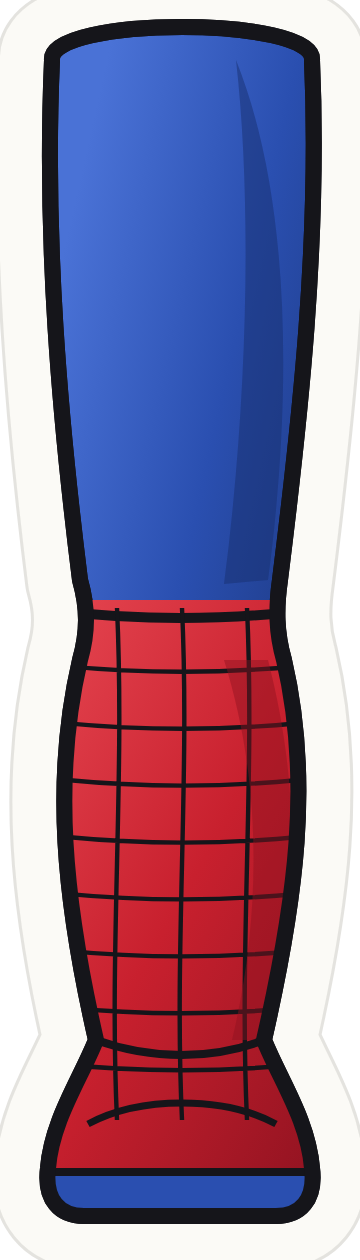
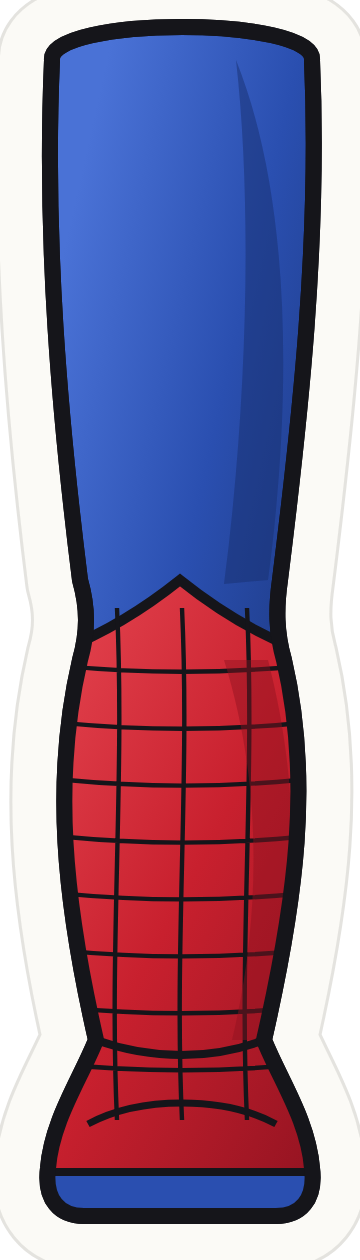
Spider-Man artwork v3 (classic design): red back spider with black outline, webs from the chest spider and nose bridge, red outer-arm stripe into pointed gloves, pointed boot tops; in-game Spider-Man back to the paper doll
Claude-Session: https://claude.ai/code/session_0198385Gymj8D5eAjyBu1iwV

Changed region(s): [[0.2444, 0.4333, 0.7639, 0.5262]]

diff --git a/tools/art/spiderman.py b/tools/art/spiderman.py
@@ -73,7 +73,7 @@ def head(front):
             f'<stop offset="0.55" stop-color="{RED}"/><stop offset="1" stop-color="{RED_D}"/></radialGradient>'
             '<linearGradient id="gLens" x1="0" y1="0" x2="1" y2="1"><stop offset="0" stop-color="#ffffff"/><stop offset="1" stop-color="#cfd8e6"/></linearGradient>')
     if front:
-        w = web(200, 300, 16, [40, 78, 118, 160, 204, 250], 330, bend=0.05, a0=-math.pi / 2, width=2.4, squash=1.08)
+        w = web(200, 290, 16, [40, 78, 118, 160, 204, 250], 330, bend=0.05, a0=-math.pi / 2, width=2.4, squash=1.08)
         detail = "".join(lens(s) for s in (-1, 1))
     else:
         w = web(200, 150, 16, [36, 74, 114, 156, 200, 248, 296], 380, bend=0.05, a0=-math.pi / 2, width=2.4, squash=1.15)
@@ -111,26 +111,31 @@ def narrow(path, k=0.8, cx=200):
 TORSO, CHEST, BELT = narrow(TORSO), narrow(CHEST), narrow(BELT)
 
 
-def spider(cx, cy, s):
+def spider(cx, cy, s, fill=None):
+    """Spider emblem. fill=None: solid black (chest); fill=color: that color with a black outline (classic back spider)."""
     legs = [
         [(8, -30), (60, -70), (128, -96)], [(10, -18), (78, -34), (150, -30)],
         [(10, 8), (80, 30), (130, 92)], [(8, 24), (52, 84), (82, 160)],
     ]
-    out = []
-    for sx in (-1, 1):
-        for L in legs:
-            pts = [(cx + sx * x * s, cy + y * s) for x, y in L]
-            out.append(f'<path d="M{pts[0][0]:.1f} {pts[0][1]:.1f}Q{pts[1][0]:.1f} {pts[1][1]:.1f} {pts[2][0]:.1f} {pts[2][1]:.1f}" '
-                       f'fill="none" stroke="{INK}" stroke-width="{7 * s:.1f}" stroke-linecap="round"/>')
-    out.append(f'<ellipse cx="{cx}" cy="{cy - 22 * s:.1f}" rx="{14 * s:.1f}" ry="{18 * s:.1f}" fill="{INK}"/>')
-    out.append(f'<path d="M{cx} {cy - 8 * s:.1f} C{cx + 24 * s:.1f} {cy:.1f} {cx + 22 * s:.1f} {cy + 56 * s:.1f} {cx} {cy + 74 * s:.1f} '
-               f'C{cx - 22 * s:.1f} {cy + 56 * s:.1f} {cx - 24 * s:.1f} {cy:.1f} {cx} {cy - 8 * s:.1f} Z" fill="{INK}"/>')
-    return "".join(out)
+    def shapes(col, grow):
+        out = []
+        for sx in (-1, 1):
+            for L in legs:
+                pts = [(cx + sx * x * s, cy + y * s) for x, y in L]
+                out.append(f'<path d="M{pts[0][0]:.1f} {pts[0][1]:.1f}Q{pts[1][0]:.1f} {pts[1][1]:.1f} {pts[2][0]:.1f} {pts[2][1]:.1f}" '
+                           f'fill="none" stroke="{col}" stroke-width="{7 * s + grow:.1f}" stroke-linecap="round"/>')
+        out.append(f'<ellipse cx="{cx}" cy="{cy - 22 * s:.1f}" rx="{14 * s + grow / 2:.1f}" ry="{18 * s + grow / 2:.1f}" fill="{col}"/>')
+        out.append(f'<path d="M{cx} {cy - 8 * s:.1f} C{cx + 24 * s:.1f} {cy:.1f} {cx + 22 * s:.1f} {cy + 56 * s:.1f} {cx} {cy + 74 * s:.1f} '
+                   f'C{cx - 22 * s:.1f} {cy + 56 * s:.1f} {cx - 24 * s:.1f} {cy:.1f} {cx} {cy - 8 * s:.1f} Z" fill="{col}" stroke="{col}" stroke-width="{grow:.1f}"/>')
+        return "".join(out)
+    if fill is None:
+        return shapes(INK, 0)
+    return shapes(INK, 8) + shapes(fill, 0)
 
 
 def torso(front):
     defs = (f'<clipPath id="cc"><path d="{CHEST}"/></clipPath><clipPath id="bc"><path d="{BELT}"/></clipPath><clipPath id="tc"><path d="{TORSO}"/></clipPath>')
-    cy = 118 if front else 130
+    cy = 150 if front else 168  # the web radiates from the spider
     w = web(200, cy, 14, [34, 68, 104, 142, 182, 224], 300, bend=0.05, a0=-math.pi / 2, width=2.2, squash=1.0)
     belt_web = "".join(f'<path d="M{200 + (110 + i * 23 - 200) * 0.8:.1f} 352 L{200 + (108 + i * 23.5 - 200) * 0.8:.1f} 440" stroke="{INK}" stroke-width="2.2"/>' for i in range(9)) + \
         f'<path d="M100 396 C170 404 230 404 300 396" fill="none" stroke="{INK}" stroke-width="2.2"/>'
@@ -144,7 +149,7 @@ def torso(front):
                   f'<path d="{CHEST}" fill="url(#gRed)" stroke="{INK}" stroke-width="5"/>'
                   f'<g clip-path="url(#cc)">{w}<path d="{narrow("M290 60 C320 120 280 200 240 260 L232 312 L250 312 C262 240 330 150 300 60 Z")}" fill="{RED_D}" opacity="0.4"/></g>'
                   f'<path d="{BELT}" fill="url(#gRed)" stroke="{INK}" stroke-width="5"/><g clip-path="url(#bc)">{belt_web}</g>'
-                  + muscles + '<g clip-path="url(#tc)">' + spider(200, 150 if front else 168, 0.85 if front else 1.25) + '</g>' +
+                  + muscles + '<g clip-path="url(#tc)">' + spider(200, 150 if front else 168, 0.85 if front else 1.25, None if front else RED_L) + '</g>' +
                   f'<path d="{TORSO}" fill="none" stroke="{INK}" stroke-width="10" stroke-linejoin="round"/>')
     return svg(400, 480, body, defs)
 
@@ -168,13 +173,14 @@ def grid_lines(x0, x1, y0, y1, cols, rows, curve=8):
 
 def arm():
     defs = (f'<clipPath id="ac"><path d="{ARM}"/></clipPath>')
-    red_low = f'<rect x="0" y="256" width="160" height="330" fill="url(#gRed)"/>'
     cap = f'<path d="M0 0 H160 V96 C120 108 40 108 0 96 Z" fill="url(#gRed)"/>'
     body = cutout(ARM, "url(#gBlue)", ink=8, extra=
                   f'<g clip-path="url(#ac)">'
                   f'<path d="M100 60 C122 110 122 170 112 214 L96 214 C106 170 108 110 100 60 Z" fill="{BLUE_D}" opacity="0.5"/>'
                   f'{cap}<path d="M0 96 C40 108 120 108 160 96" fill="none" stroke="{INK}" stroke-width="5"/>'
-                  f'{red_low}<path d="M0 256 C40 266 120 266 160 256" fill="none" stroke="{INK}" stroke-width="5"/>'
+                  f'<path d="M24 90 L58 98 C56 150 54 200 56 262 L24 262 Z" fill="url(#gRed)"/><path d="M58 98 C56 150 54 200 56 262" fill="none" stroke="{INK}" stroke-width="4"/>'
+                  f'<path d="M0 270 C40 262 64 250 82 240 C100 250 124 262 160 270 L160 600 L0 600 Z" fill="url(#gRed)"/>'
+                  f'<path d="M0 270 C40 262 64 250 82 240 C100 250 124 262 160 270" fill="none" stroke="{INK}" stroke-width="5"/>'
                   f'{grid_lines(30, 134, 260, 470, 4, 8, 6)}{grid_lines(30, 134, 10, 100, 4, 3, 6)}'
                   f'<path d="M98 270 C112 330 108 400 100 462 L116 462 C124 400 126 330 116 270 Z" fill="{RED_D}" opacity="0.45"/>'
                   f'<path d="M96 476 C112 490 116 520 108 552 L124 540 C132 510 126 486 110 470 Z" fill="{RED_D}" opacity="0.5"/>'
@@ -198,8 +204,8 @@ def leg():
     body = cutout(LEG, "url(#gBlue)", ink=8, extra=
                   f'<g clip-path="url(#lc)">'
                   f'<path d="M118 30 C146 100 146 200 134 290 L112 292 C124 200 126 100 118 30 Z" fill="{BLUE_D}" opacity="0.5"/>'
-                  f'<rect x="0" y="300" width="180" height="320" fill="url(#gRed)"/>'
-                  f'<path d="M0 300 C50 312 130 312 180 300" fill="none" stroke="{INK}" stroke-width="5"/>'
+                  f'<path d="M0 334 C40 326 70 306 90 290 C110 306 140 326 180 334 L180 630 L0 630 Z" fill="url(#gRed)"/>'
+                  f'<path d="M0 334 C40 326 70 306 90 290 C110 306 140 326 180 334" fill="none" stroke="{INK}" stroke-width="5"/>'
                   f'{grid_lines(26, 156, 304, 560, 4, 9, 7)}'
                   f'<path d="M112 330 C134 400 128 470 116 520 L132 520 C148 460 152 400 134 330 Z" fill="{RED_D}" opacity="0.45"/>'
                   f'<path d="M20 586 L160 586 L160 620 L20 620 Z" fill="{BLUE}"/><path d="M20 586 L160 586" stroke="{INK}" stroke-width="4"/>'
